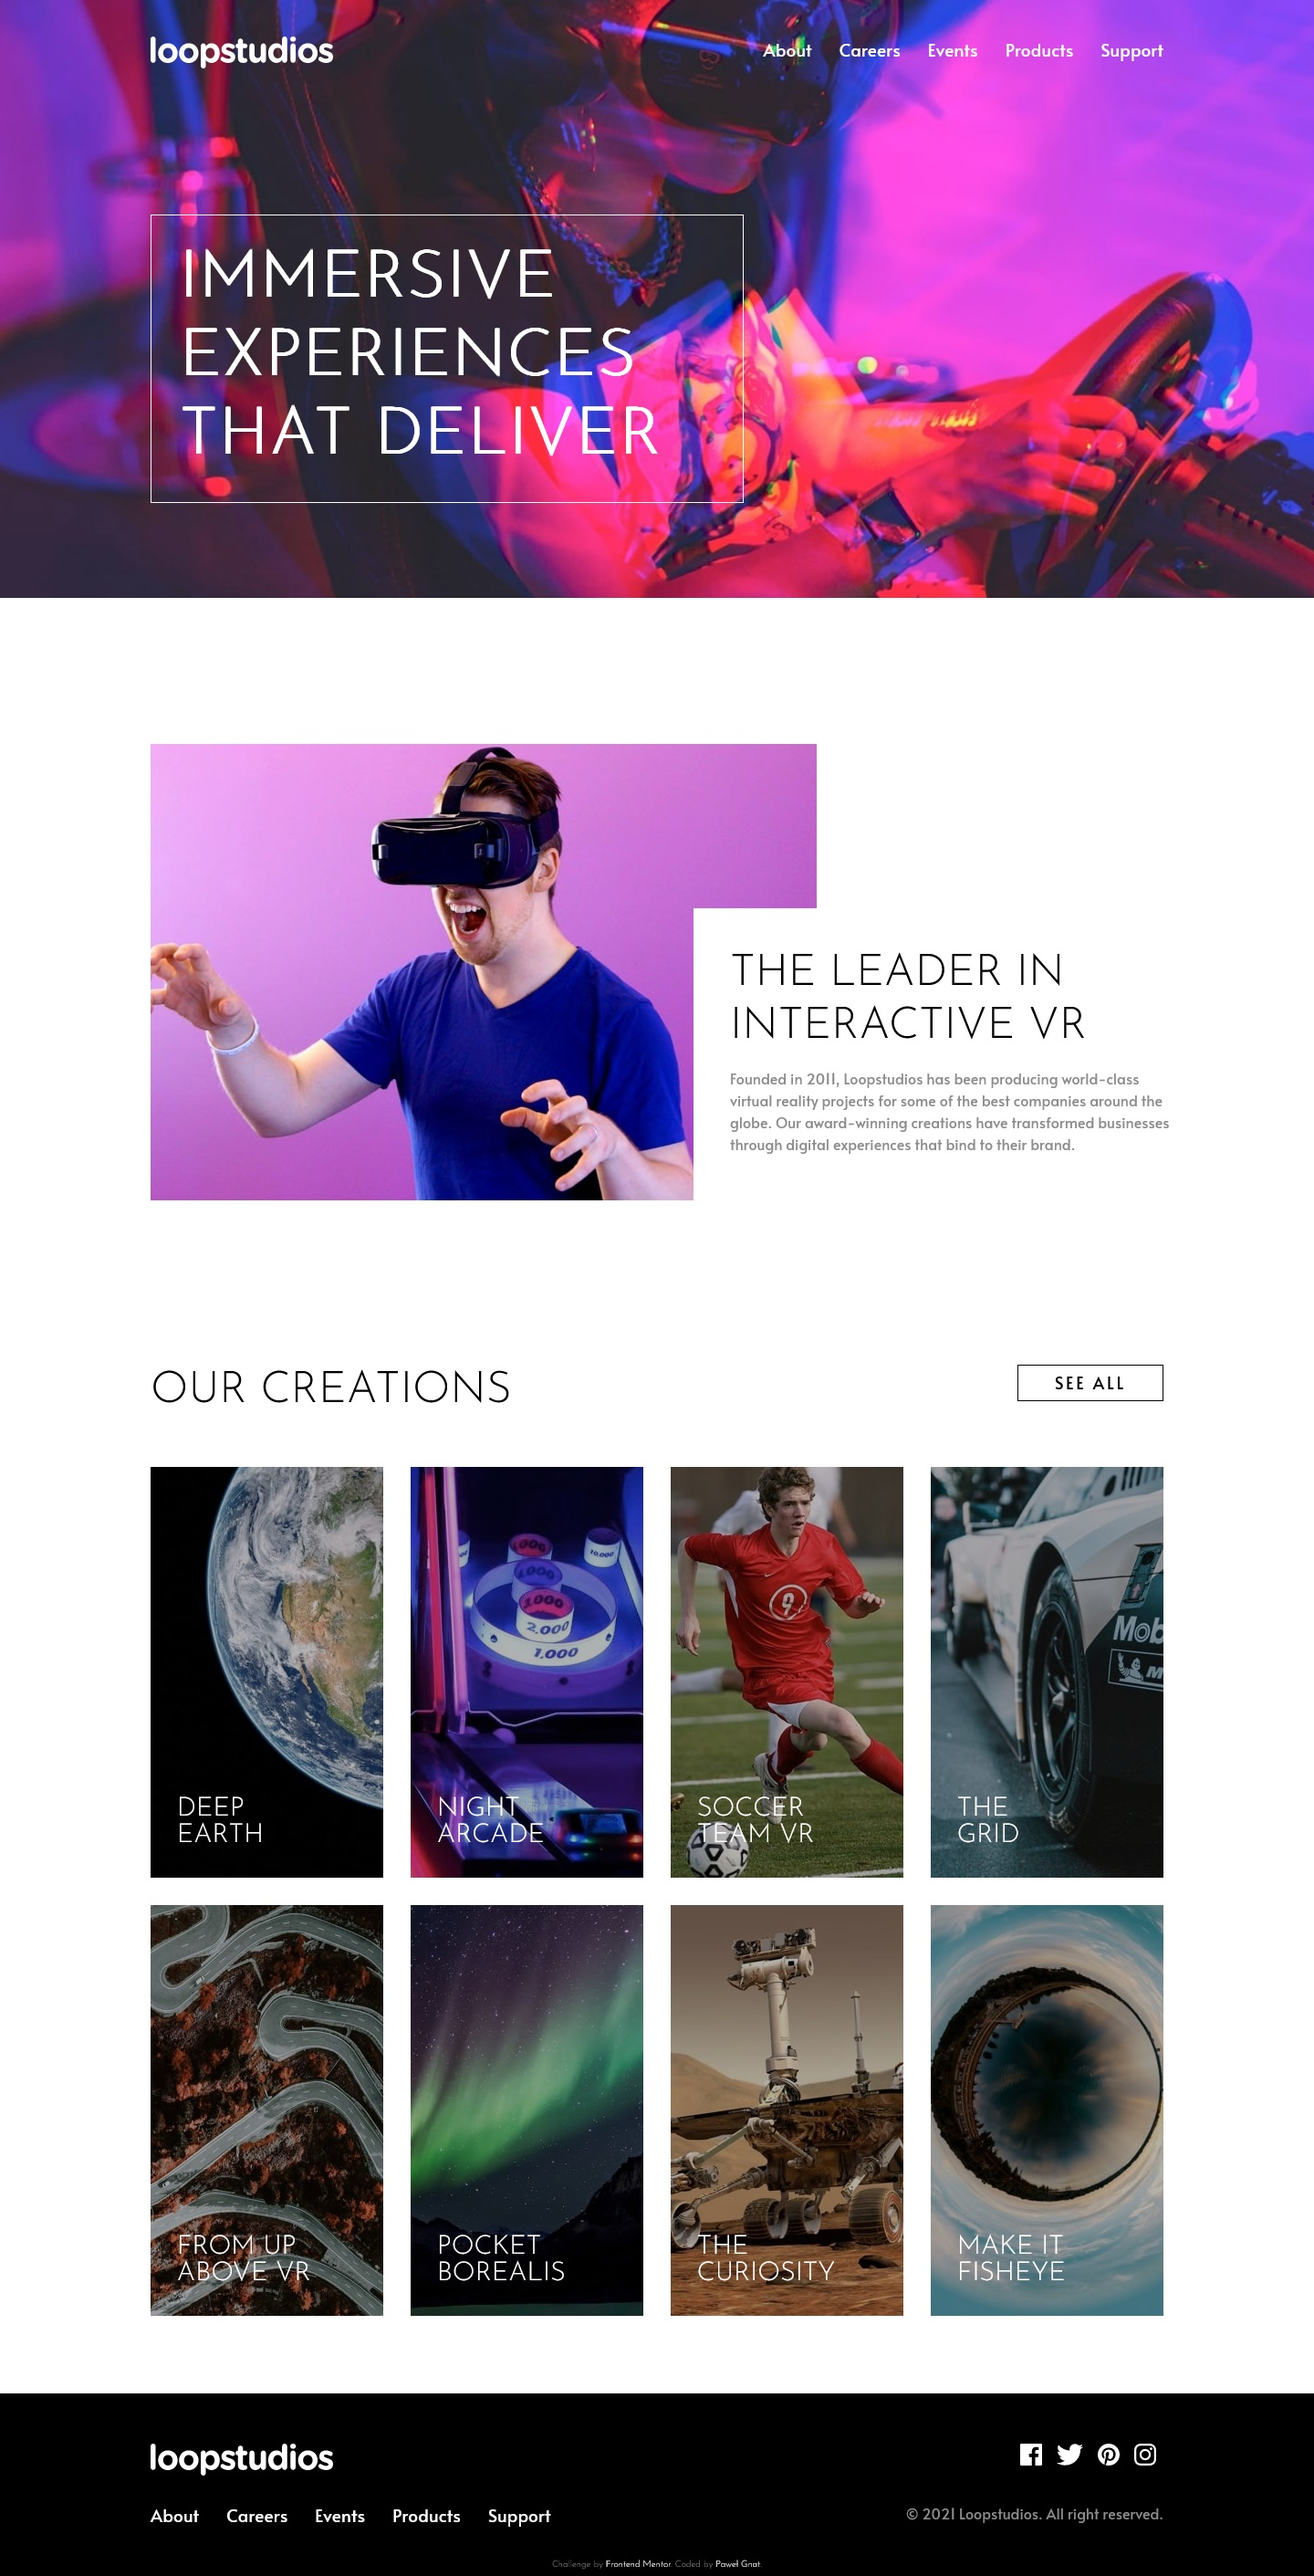
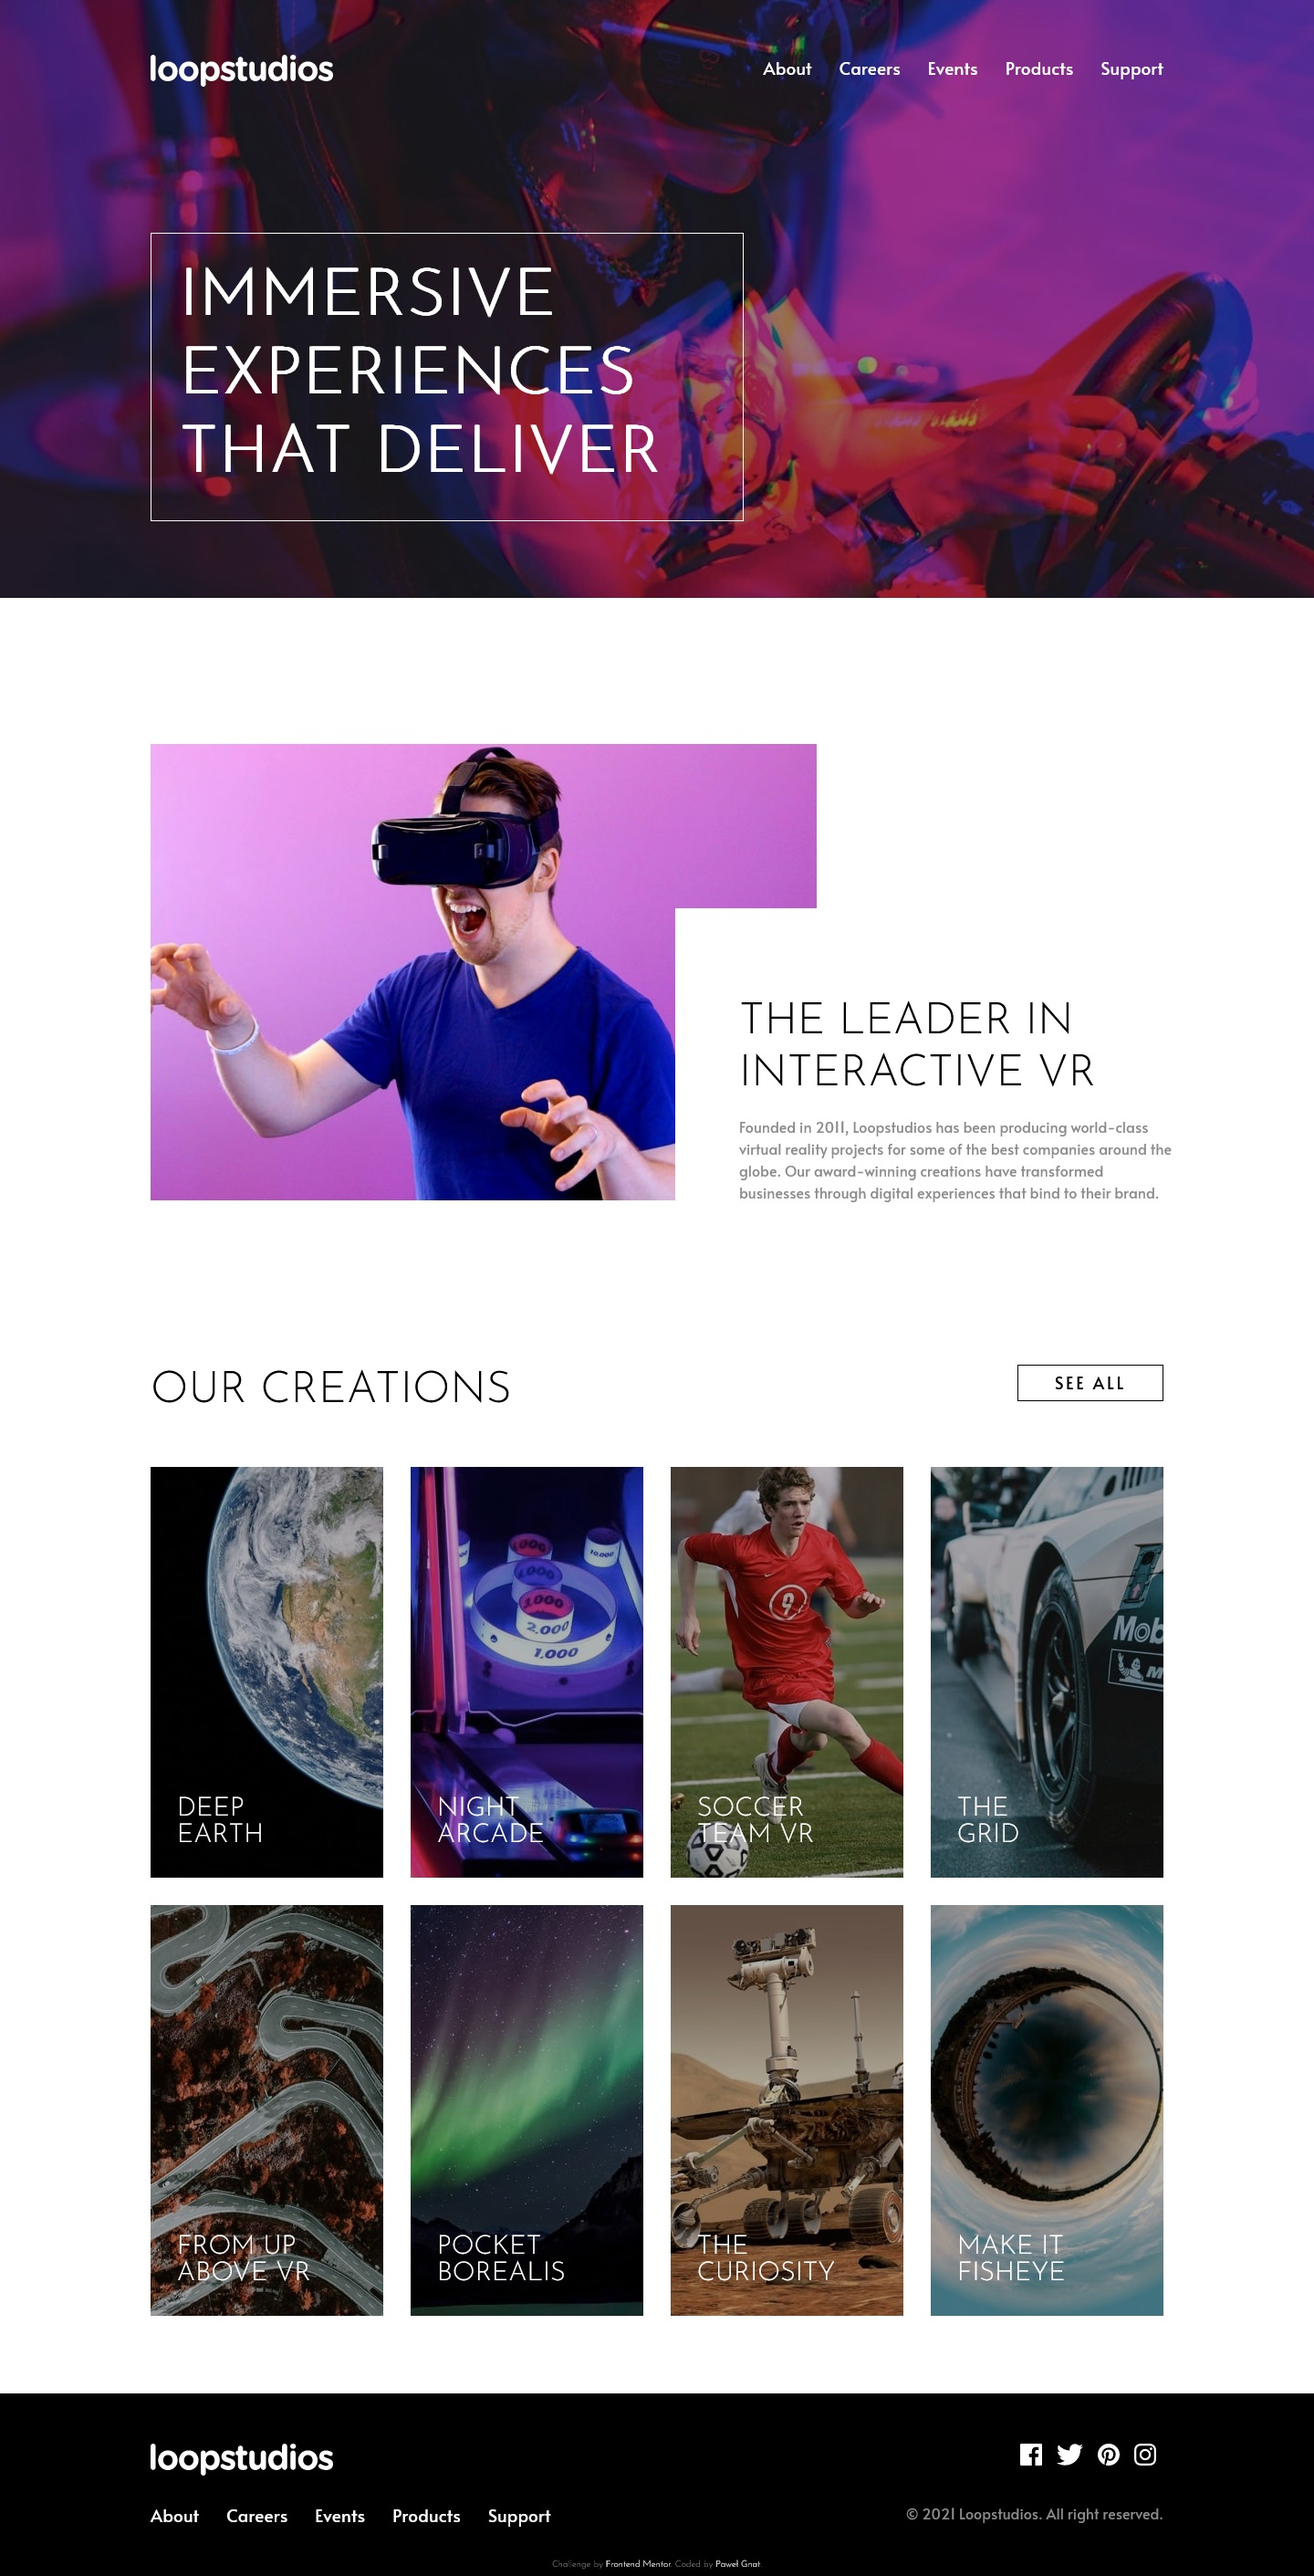
changed company section, darken my navbar image and added more padding

Changed region(s): [[0.0, 0.0, 1.0, 0.2495], [0.5625, 0.3742, 0.875, 0.4678], [0.5, 0.343, 0.5312, 0.4678]]

diff --git a/css/style.css b/css/style.css
@@ -475,8 +475,12 @@ footer {
 
 @media (min-width: 768px) {
   header {
-    background: url("../images/desktop/image-hero.jpg") center no-repeat;
+    background: rgba(0, 0, 0, 0.4) url("../images/desktop/image-hero.jpg") center no-repeat;
     background-size: cover;
+    background-blend-mode: darken;
+  }
+  .navbar {
+    padding: 6em 2.5em 4em;
   }
   .navbar__desktop {
     display: block;
@@ -702,14 +706,14 @@ footer {
     top: 13em;
     right: 0;
     height: 32em;
-    width: 54em;
-    padding: 0 1em 0 4em;
+    width: 56em;
+    padding: 0 1em 0 7em;
     background-color: white;
     text-align: left;
     z-index: 2;
   }
   .company__text--heading {
-    margin-top: 0.9em;
+    margin-top: 2em;
   }
   .company__text--info {
     font-size: 1rem;

diff --git a/sass/style.scss b/sass/style.scss
@@ -393,11 +393,14 @@ footer {
 
 @media (min-width: 768px) {
 	header {
-		background: url('../images/desktop/image-hero.jpg') center no-repeat;
+		background: rgba(0, 0, 0, 0.4) url('../images/desktop/image-hero.jpg') center no-repeat;
 		background-size: cover;
+		background-blend-mode: darken;
 	}
 
 	.navbar {
+		padding: 6em 2.5em 4em;
+
 		&__desktop {
 			display: block;
 
@@ -584,14 +587,15 @@ footer {
 			top: 13em;
 			right: 0;
 			height: 32em;
-			width: 54em;
-			padding: 0 1em 0 4em;
+			width: 56em;
+			padding: 0 1em 0 7em;
 			background-color: $white;
 			text-align: left;
 			z-index: 2;
 
 			&--heading {
-				margin-top: 0.9em;
+				// margin-top: 0.9em;
+				margin-top: 2em;
 			}
 
 			&--info {
